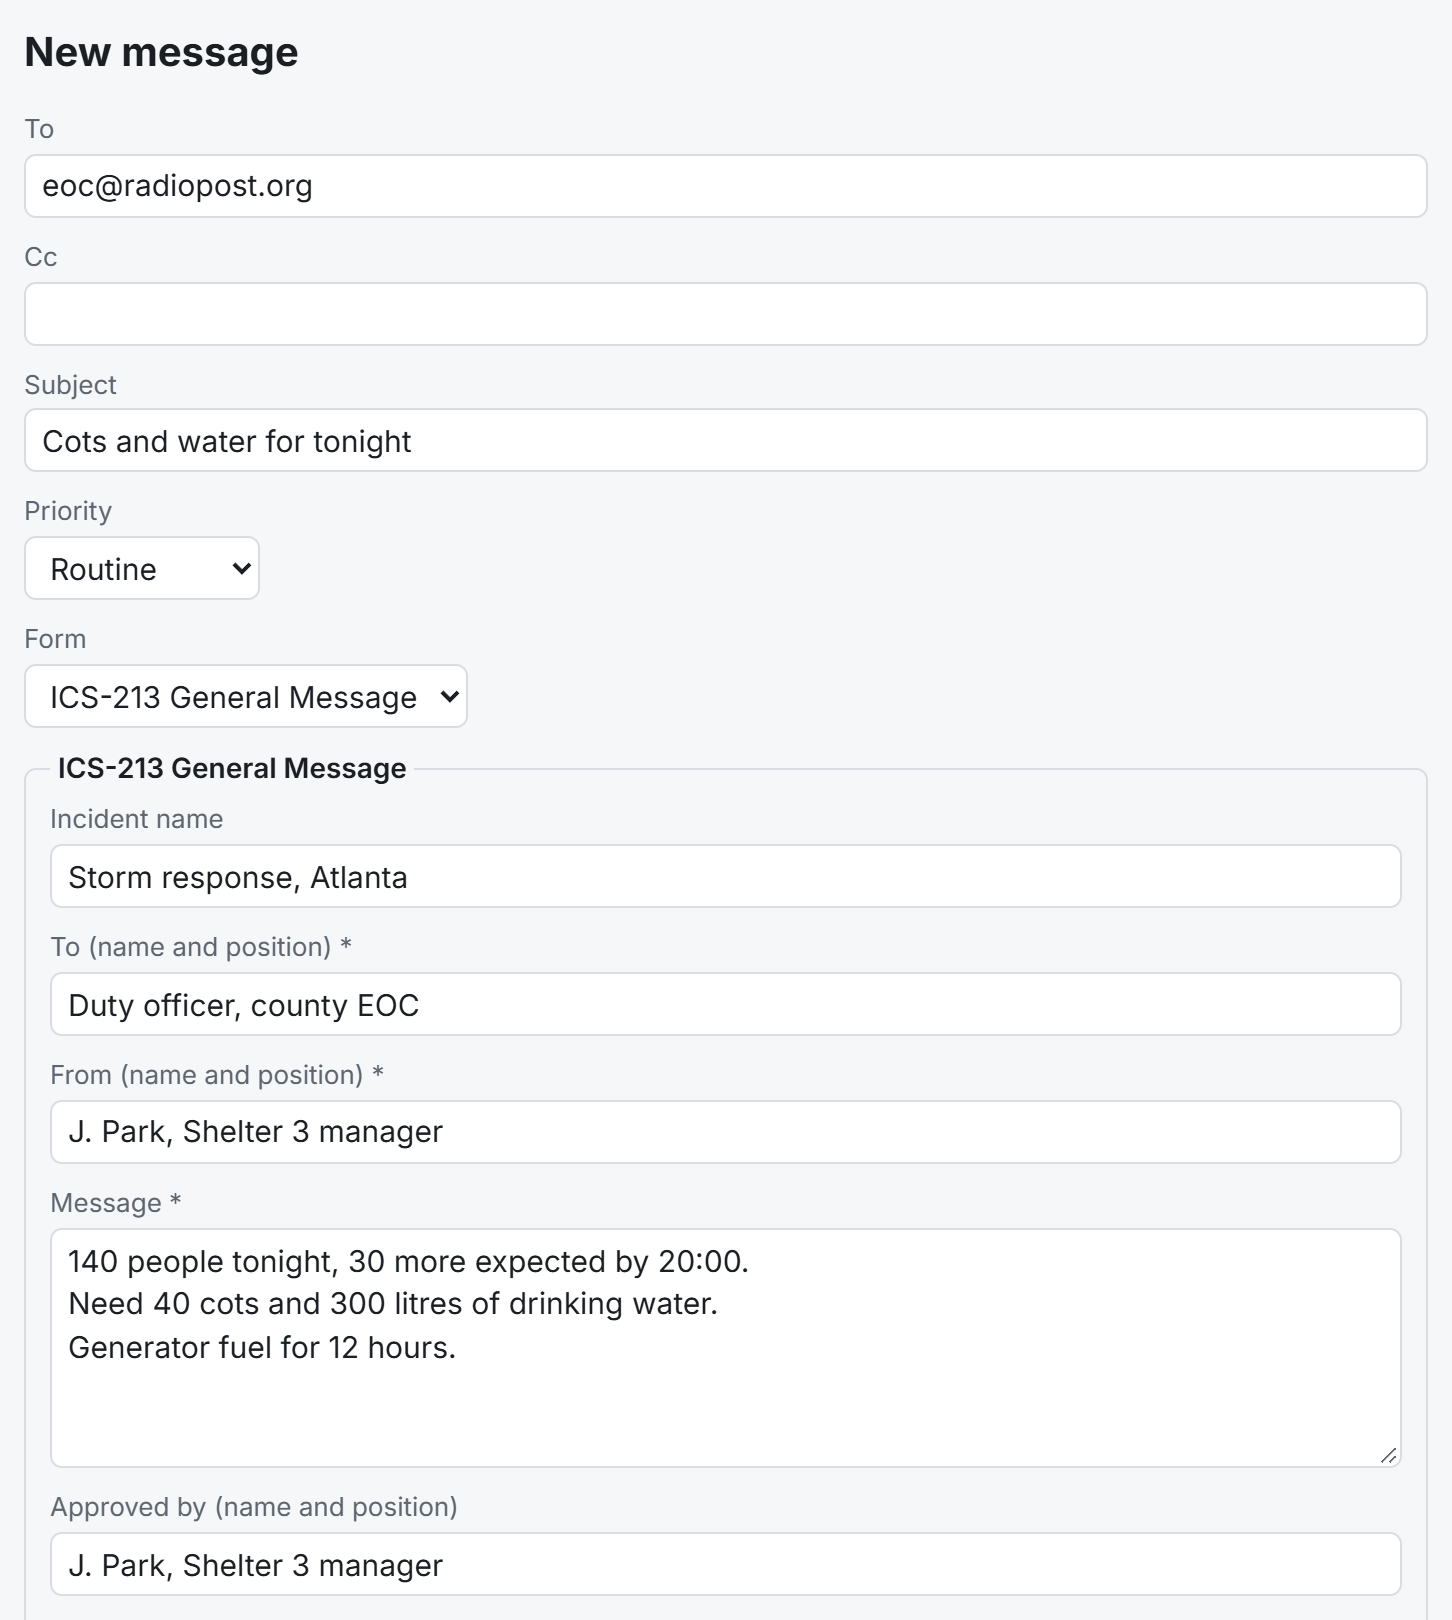
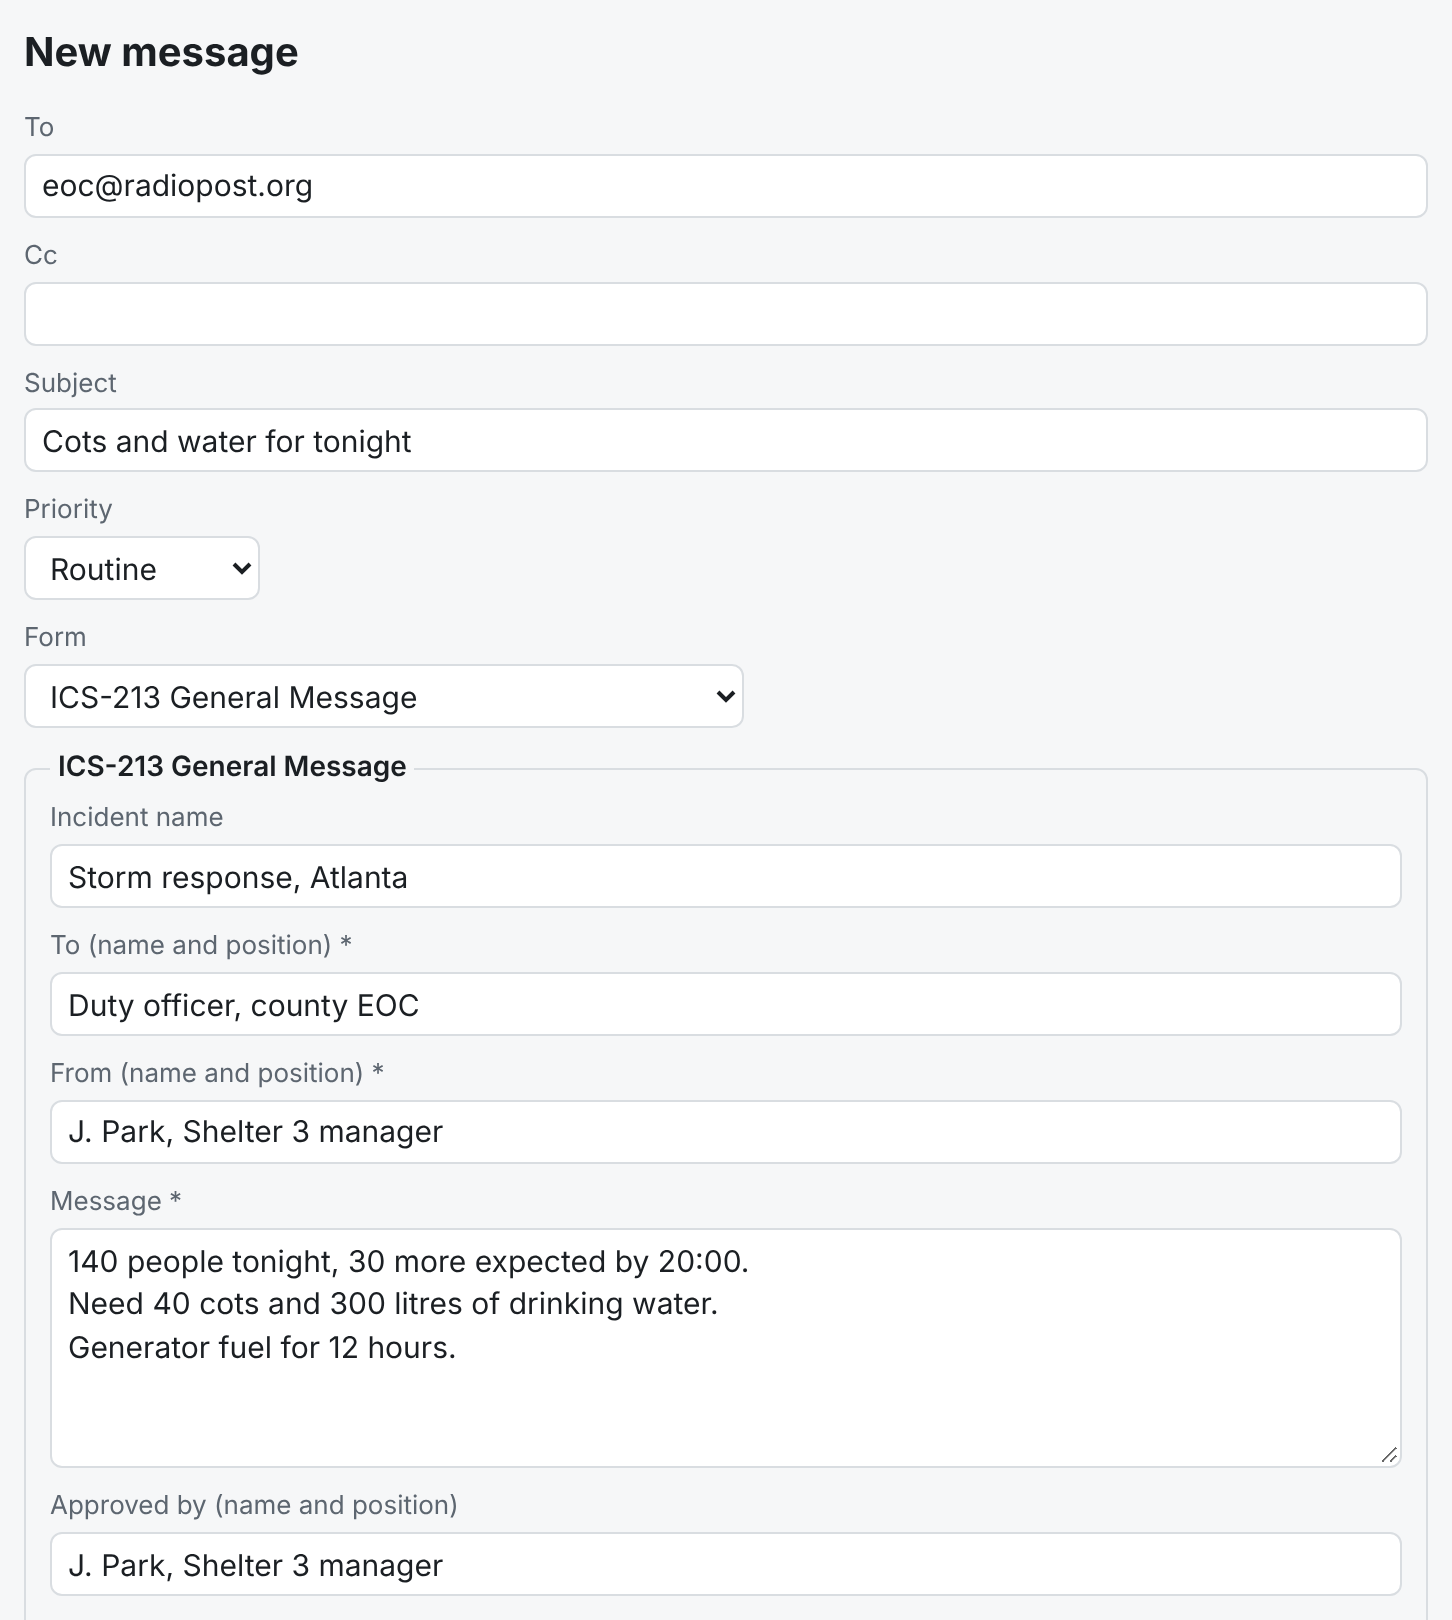
docs(readme): forms, reports on a map, P2P made plain, and the specs since 1.0
The README had stopped at 2026-11-24's morning. It now says what the
eighteen published forms are and that FEMA's print as their paper forms,
that a group's own forms are fetched by fingerprint, that forms with a
position go on the Reports map and out as CSV or GeoJSON, that a circle
can be sent reports, that Listen for P2P tunes to its dial and answers
both bandwidths, that a gateway call goes at its channel's bandwidth,
and the sessions on the air of 2026-11-21 and 23. The Status section's
list of changes to RP-0 to RP-6 since 1.0.0 had become one sentence of
eleven lines and stopped at RP-5 1.6.0; it is a list now, to RP-0 1.6.0,
RP-2 1.5.0, RP-4 1.6.1, RP-5 1.8.0 and RP-6 1.3.0.

A new picture, readme-reports (screens.mjs's scene of the same name):
the Reports view's damage reports, coloured by damage. Three retaken:
the reader now has Print and Save, the composer's Form list is wider,
and the Gateways shot had a line of the log at its foot (its window is
100 px taller).

Claude-Session: https://claude.ai/code/session_01QyQUNBsanNiTu29vLQiC6g

diff --git a/README.md b/README.md
@@ -64,11 +64,13 @@ Email by radio is not new. This is what RadioPost does differently:
   received, through any gateway.
 * **A key for each computer.** Each computer signs your sessions with a key of its own that never
   leaves it, and your post office can revoke one device without touching the others.
-* **Forms by their values.** An ICS-213 goes as the values you typed, in about a fifth less air
-  time than its text. It shows as the form at the other station and prints as FEMA's paper
-  ICS 213.
+* **Forms by their values.** Eighteen forms, FEMA's ICS forms among them, go as the values you
+  typed, in less air time than their text. Each shows as the form at the other station, and FEMA's
+  print as FEMA's paper forms. A form with a position puts its report on a map. A group can add
+  forms of its own, and every station can fetch them.
 * **Alerts with no session.** A one-line alert reaches one station or a whole circle as a short
   broadcast, on a path too weak for a session, and can sound an alarm there until someone answers.
+  A position report can go to a circle the same way, again every 10 to 60 minutes as you move.
 
 ## How it works
 
@@ -96,15 +98,28 @@ stations can also send mail to each other directly, with no gateway and no Inter
 message in the outbox until it goes. Print a message or make a PDF of it, and save the files it
 carries. A large attachment waits at your post office until you ask for it on a call.
 
-<p align="center"><img src="docs/images/readme-reader.png" width="620" alt="A message open in RadioPost, with Reply, Reply all and Forward, and an attachment held at the post office with a button to ask for it on the next call"></p>
+<p align="center"><img src="docs/images/readme-reader.png" width="620" alt="A message open in RadioPost, with Reply, Reply all, Forward and Print, a file it carries with Save, and an attachment held at the post office with a button to ask for it on the next call"></p>
 
-**Send a form in less air time.** Choose ICS-213 General Message under **Form** and fill in its
-fields. Only what you type goes on the air, so a short ICS-213 takes about a fifth less time than
-the same text typed out. The station that receives it shows the whole form and prints it as
-FEMA's paper ICS 213, and someone reading by email gets it as text with its labels.
+**Send a form in less air time.** Choose a form under **Form** and fill in its fields. RadioPost
+holds eighteen: FEMA's ICS 202, 204, 205, 205A, 206, 208, 210, 211, 213, 213RR and 214, and its own
+Check-in, Check-out, Communications Log, Damage Report, Position Report, Situation Report and Storm
+Report. Only what you type goes on the air, so a short ICS-213 takes about a fifth less time than
+the same text typed out. The station that receives it shows the whole form, and prints FEMA's as
+FEMA's paper forms. Someone reading by email gets it as text with its labels, and a map link for
+each position. A group can write forms of its own: import one, and RadioPost hands it to your post
+office, where any station can fetch it with **Get the form**.
 [Writing a message](docs/manual/manual.md#7-writing-a-message) says more.
 
 <p align="center"><img src="docs/images/readme-form.png" width="620" alt="The New message form with ICS-213 General Message chosen: To, Subject, and the form's fields filled in for a shelter asking a county EOC for cots and water"></p>
+
+**See the reports on a map.** A damage report, a check-in, a storm report and other forms carry a
+position: your GPS's fix, a place you saved, degrees or a grid square, sent exactly as shown.
+**Reports** puts the ones you received and sent on a map, coloured by one of the form's choices,
+such as the damage. Open each report's message or its place on OpenStreetMap, and save them as CSV
+for a spreadsheet or GeoJSON for QGIS, ArcGIS or CalTopo. [Reports](docs/manual/manual.md#91-reports)
+says how.
+
+<p align="center"><img src="docs/images/readme-reports.png" width="700" alt="The Reports view: damage reports round Atlanta on a map with its Maidenhead subsquares, coloured from None in green to Destroyed in red, one picked, with Open the message, OpenStreetMap, and Save as CSV and Save as GeoJSON above"></p>
 
 **Find a gateway near you.** The list comes from your post office and the ones it knows, sorted
 by distance from where you are (a place you saved, or your GPS), with each gateway's channels and
@@ -113,20 +128,26 @@ it is now and the great circle to the one you pick; it needs no Internet either.
 says how likely a link is this hour, or at any hour you pick, and how fast it would go each way:
 VOACAP, run on your computer both ways, read through the modem's own measured speeds. A VHF channel
 says how the path goes over the terrain. Pick a channel and RadioPost tunes the radio there, and
-keys a tuner tone when you ask. A gateway that scans several channels is reached on any of them:
-RadioPost keeps calling until it comes round.
+keys a tuner tone when you ask; the call goes at the channel's bandwidth. A gateway that scans
+several channels is reached on any of them: RadioPost keeps calling until it comes round.
 
 <p align="center"><img src="docs/images/readme-gateways.png" width="700" alt="The Gateways page's map: the gateways round Atlanta in their Maidenhead squares, you, and the great circle to N1CALL-10 in Austin, 1309 km at 257 degrees, with a Choose button"></p>
 
 **Mail station to station**, with no gateway and no Internet. Switch on **Listen for P2P** and
-RadioPost answers calls to any of your callsigns, session after session, until you switch it off.
-To call, give the other station's callsign, the dial and the bandwidth. When you next have the
-Internet, **Send reports** tells your post office, which marks the mail delivered.
+RadioPost tunes the radio to the dial you agreed and answers calls to any of your callsigns, at
+either bandwidth, session after session, until you switch it off. A line under the switch says
+where and how the station answers, to pass on to whoever will call. To call, give the other
+station's callsign, the dial and the bandwidth. When that station has a gateway listed under its
+callsign, RadioPost predicts the band from the gateway's site, and says when another band would
+work better. When you next have the Internet, **Send reports** tells your post office, which
+marks the mail delivered.
 
 **Raise an alert.** Stations that share a keyword make a circle: a family, a net, a team. An
 alert to one of them, or to all of them, needs no call. At the other station it can sound an
 alarm and bring RadioPost to the front until someone answers: *Received*, *Calling you now*, or a
-line of their own. Anyone can read an alert, but only the circle's stations can raise one.
+line of their own. Anyone can read an alert, but only the circle's stations can raise one. A form
+with a position, such as a Position Report or a Storm Report, can go to the circle the same way,
+once or again every 10 to 60 minutes, and lands on each station's **Reports** map.
 [Alerts](docs/manual/manual.md#101-alerts) says how.
 
 <p align="center"><img src="docs/manual/screens/client-alarm.png" width="620" alt="An alert from KK4ODA in the circle Family, Please call me on 146.52 now, with Acknowledge, Call back, three quick replies and a line of your own"></p>
@@ -198,7 +219,10 @@ delivery curves and the constellations, is in
 
 On 2026-11-17 and 18 the same two stations worked 40 m at 2300 Hz, the gateway scanning 7.101
 and 3.590 MHz: a 52 kB attachment crossed at about 920 bit/s, and P2P mail crossed between two
-RadioPost clients under heavy QRM, an ICS-213 among it.
+RadioPost clients under heavy QRM, an ICS-213 among it. On 2026-11-21 the gateway scanned three
+bands, 3.590, 7.101 and 14.107 MHz, and the mobile's mail checks on 80 m and 40 m each found it.
+On 2026-11-23 a portable station at 10 W, about 95 km away, checked its mail through the gateway
+and worked the home station P2P, on 40 m.
 
 Aether keys the radio, checks the band rules before every transmission and identifies the
 station, in Morse or in its data signal. One Aether station serves RadioPost and Winlink programs
@@ -275,7 +299,7 @@ office or modem adapter from the specifications, and it will work with everyone 
 
 | You are building | Start with |
 |---|---|
-| A client | RP-1, RP-2, RP-3; RP-4 to drive a modem; RP-8 for alerts |
+| A client | RP-1, RP-2, RP-3; RP-4 to drive a modem; RP-8 for alerts and reports |
 | A gateway | RP-1, RP-2, RP-3, RP-5; RP-4 to drive modems; RP-7 to forward when cut off |
 | A post office | RP-1, RP-2, RP-5, RP-6 |
 | An adapter for a modem | RP-4 |
@@ -292,16 +316,29 @@ against RadioPost's over the Internet.
 
 **RP-0 to RP-6 are Stable** (1.0.0 on 2026-11-15): radiopost.org's pilot runs them, and a change
 an existing implementation cannot ignore now comes only with a new protocol version (RP-0 §8.3).
-Since then they have changed only in minor and patch versions: forms (RP-2 and RP-6 1.1.0),
-gateways that scan and the tuner tone (RP-4 1.1.0 and 1.2.0, RP-5 1.1.0), alerts (RP-0 1.1.0 and
-RP-4 1.3.0), withdrawing a gateway's registration (RP-5 1.2.0), and the answers to 35 questions
-from RadioPostKit, a second implementation, each keeping what conforming programs already send
-(RP-0 1.2.0, RP-1 1.1.0, RP-2 1.2.0, RP-3 1.1.0, RP-4 1.3.1, RP-5 1.3.0), and when a gateway
-listens and was last seen, and where its antennas are and how it transmits, for choosing one
-(RP-5 1.4.0 and 1.5.0, RP-0 1.3.0), and whether a gateway is on the air now, as it reports to its
-post office (RP-5 1.6.0, RP-0 1.4.0). RP-4 also describes
-the VARA, ARDOP and packet adapters. RP-7, forwarding between gateways, and RP-8, alerts, are
-drafts. All nine are written, with test vectors for RP-1 to RP-8.
+Since then they have changed only in minor and patch versions, each announced in the release
+notes:
+
+* forms by their values (RP-2 and RP-6 1.1.0), then forms for most jobs: positions, dates with
+  times, several choices, tables and the eighteen published templates (RP-2 1.4.0 and 1.4.1), map
+  links in emailed forms (RP-6 1.3.0), and a group's own templates fetched by fingerprint (RP-2
+  1.5.0, RP-5 1.8.0);
+* gateways that scan, the tuner tone, and where a station listens for P2P and in which bandwidths
+  (RP-4 1.1.0, 1.2.0 and 1.6.0, RP-5 1.1.0);
+* alerts, the dial they go on, and reports by broadcast (RP-0 1.1.0 and 1.6.0, RP-4 1.3.0, 1.5.0
+  and 1.6.1);
+* withdrawing a gateway's registration (RP-5 1.2.0);
+* the answers to 35 questions from RadioPostKit, a second implementation, each keeping what
+  conforming programs already send (RP-0 1.2.0, RP-1 1.1.0, RP-2 1.2.0, RP-3 1.1.0, RP-4 1.3.1,
+  RP-5 1.3.0);
+* for choosing a gateway: when it listens and was last seen, where its antennas are and how it
+  transmits, and whether it is on the air now (RP-0 1.3.0 and 1.4.0, RP-5 1.4.0 to 1.6.0), and
+  whether the station called was heard during a call that failed (RP-4 1.4.0);
+* addresses written in lowercase, compared without regard to case (RP-0 1.5.0, RP-1 1.2.0,
+  RP-2 1.3.0, RP-5 1.7.0, RP-6 1.2.0).
+
+RP-4 also describes the VARA, ARDOP and packet adapters. RP-7, forwarding between gateways, and
+RP-8, alerts and reports, are drafts. All nine are written, with test vectors for RP-1 to RP-8.
 
 The programs follow the [order of work](docs/design/00-detailed-design.md#9-order-of-work), in
 Rust, each checked against the test vectors:
@@ -312,9 +349,9 @@ Rust, each checked against the test vectors:
   open-source HF modem, one for the Mercury HF modem, one for VARA HF and VARA FM through their
   published commands, one for ARDOP (ardopcf), one for AX.25 packet through a TNC's AGWPE port
   (Dire Wolf), and one for TCP.
-* **The client** ([`app/client`](app/client/README.md)): mail to another station or through a
-  gateway, and alerts to a circle, on the command line, from its panel in a browser, or as a
-  desktop application.
+* **The client** ([`app/client`](app/client/README.md)): mail and forms to another station or
+  through a gateway, reports on a map, and alerts and reports to a circle, on the command line,
+  from its panel in a browser, or as a desktop application.
 * **The gateway**: it answers users' calls, on one modem or several, scanning its channels with
   Aether, and carries their sessions to
   their post offices, as a desktop application of its own, RadioPost Gateway
@@ -356,7 +393,7 @@ The programs say when a newer release is out and update themselves. On-air tests
 | [`vectors/`](vectors/README.md) | The test vectors, generated by `tools/vectors/make.py`, never edited by hand. |
 | [`core/`](core/README.md) | The Rust workspace: the core library, the modem interface, the gateway, the post office service, the conformance tester. |
 | `adapters/` | The modem adapters: Aether HF, Mercury, VARA, ARDOP, AX.25 packet and TCP. |
-| [`forms/`](forms/README.md) | The published form templates, ICS-213 first. A changed template is a new template. |
+| [`forms/`](forms/README.md) | The eighteen published form templates, ICS-213 first, and the layouts that print FEMA's as FEMA's paper forms. A changed template is a new template. |
 | [`app/`](app/client/README.md) | The client (the `radiopost` program, its panel and the desktop application) and RadioPost Gateway ([`app/gateway`](app/gateway/README.md)). |
 | [`tools/`](tools/) | The vectors' reference, the figures' generators and the documents' checker (Python, standard library only). |
 
